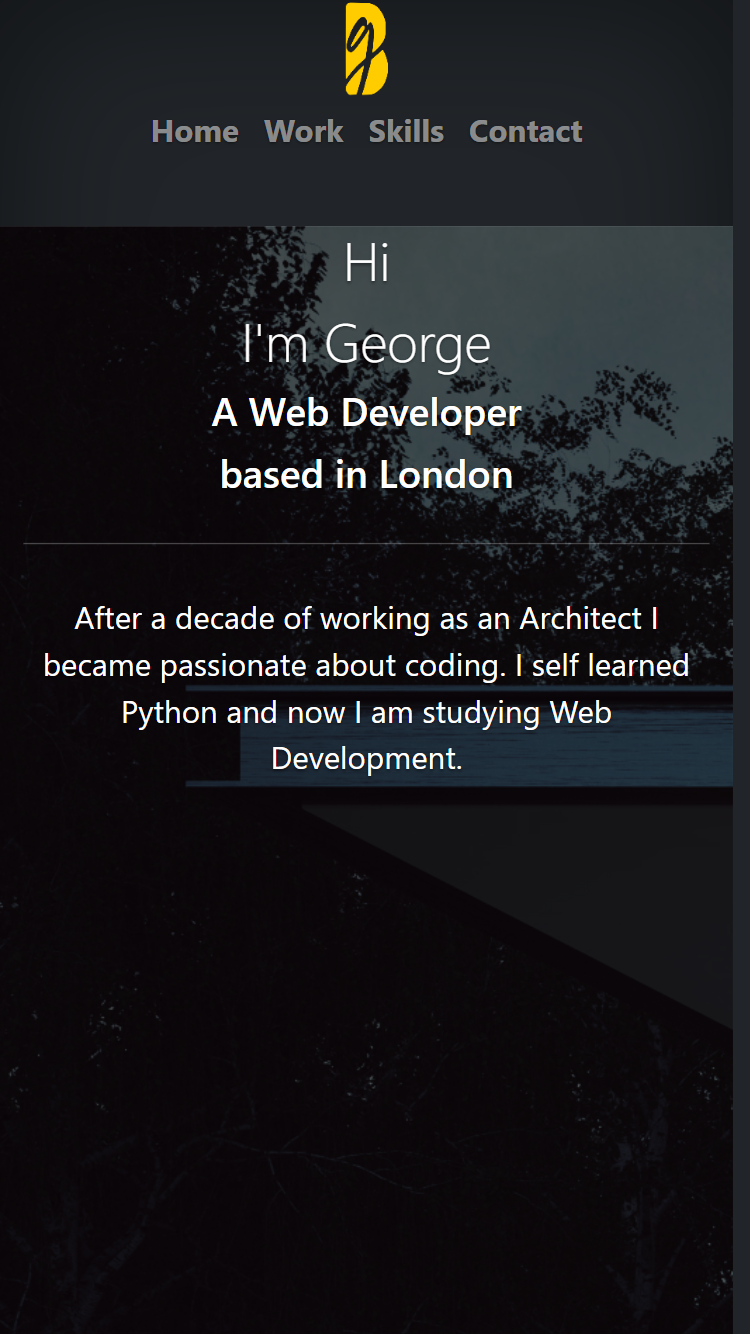
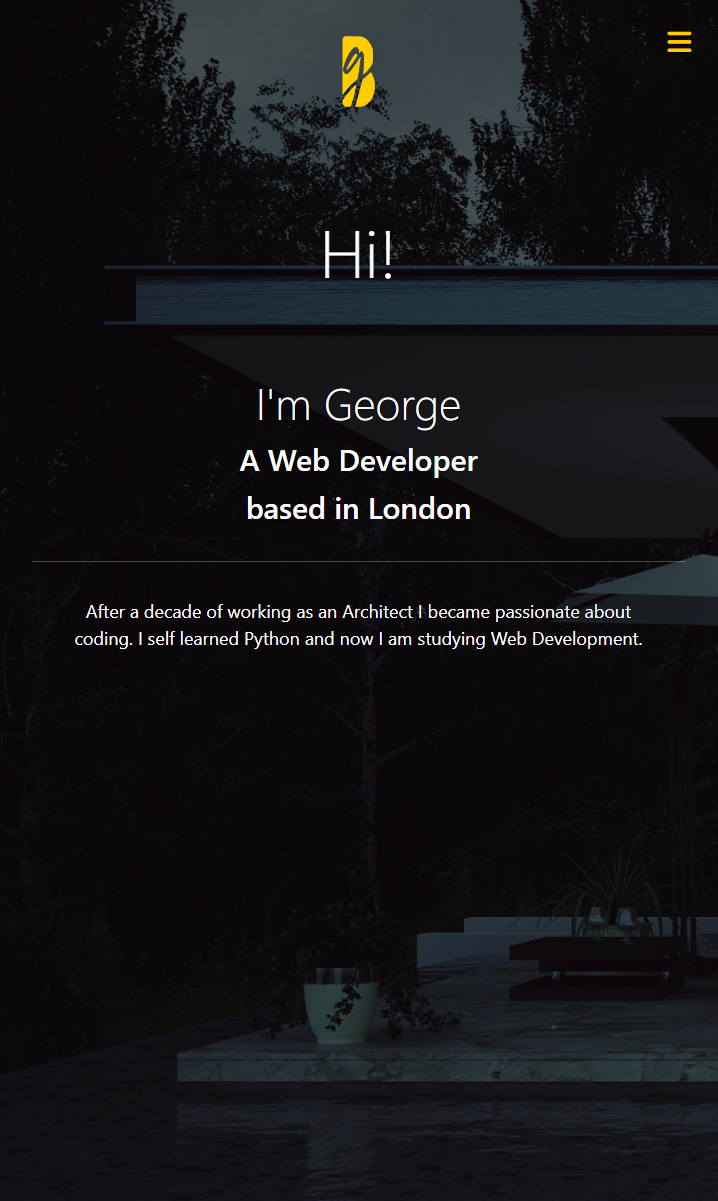
hero section pagination

diff --git a/index.html b/index.html
@@ -41,10 +41,10 @@
         <!-- Hero section -->
         <section id="hero">
             <div class="container p-4">
-                <div class="row justify-content-center">
+                <div class="row justify-content-bottom">
                     <div class="col-sm-4 col-md-4 col-lg-4">
-                        <h5 class="display-6">Hi</h5>
-                        <h5 class="display-6">I'm George</h5> </h5>
+                        <h5 class="display-2 pt-5">Hi!</h5>
+                        <h5 class="display-6 pt-5">I'm George</h5>
                         <h5 class="display-7">A Web Developer</h5>
                         <h5 class="display-7">based in London</h5>
 
@@ -232,7 +232,8 @@
         <!-- Javascript -->
         <!-- JS - Toggle Menu  -->
         <script>
-            var navLinks = document.getElementById("navLinks");
+            var navLinks = document.getElementById("navLinks");            
+
             function showMenu(){
                 navLinks.style.right = "0";
                 navLinks.style.transition = "0.5s";

diff --git a/assets/css/style.css b/assets/css/style.css
@@ -94,6 +94,9 @@ nav .fa {
 @media (max-width: 700px) {
 
     /* Navbar */ 
+    .masthead {
+        height: 0px;
+    }
     #navLinks {        
         position: absolute;
         background: rgba(0, 0, 0, .5);
@@ -105,17 +108,6 @@ nav .fa {
         opacity: 90%;        
     }
   
-    /* Logo */
-    .navbar-brand {   
-        display: none;
-        position: absolute;
-        bottom: 0;
-        right: 0;
-        padding-bottom: 35px;
-        padding-right: 45px;
-        justify-content: center;
-        
-    }
     .nav {
         display: block;
     }
